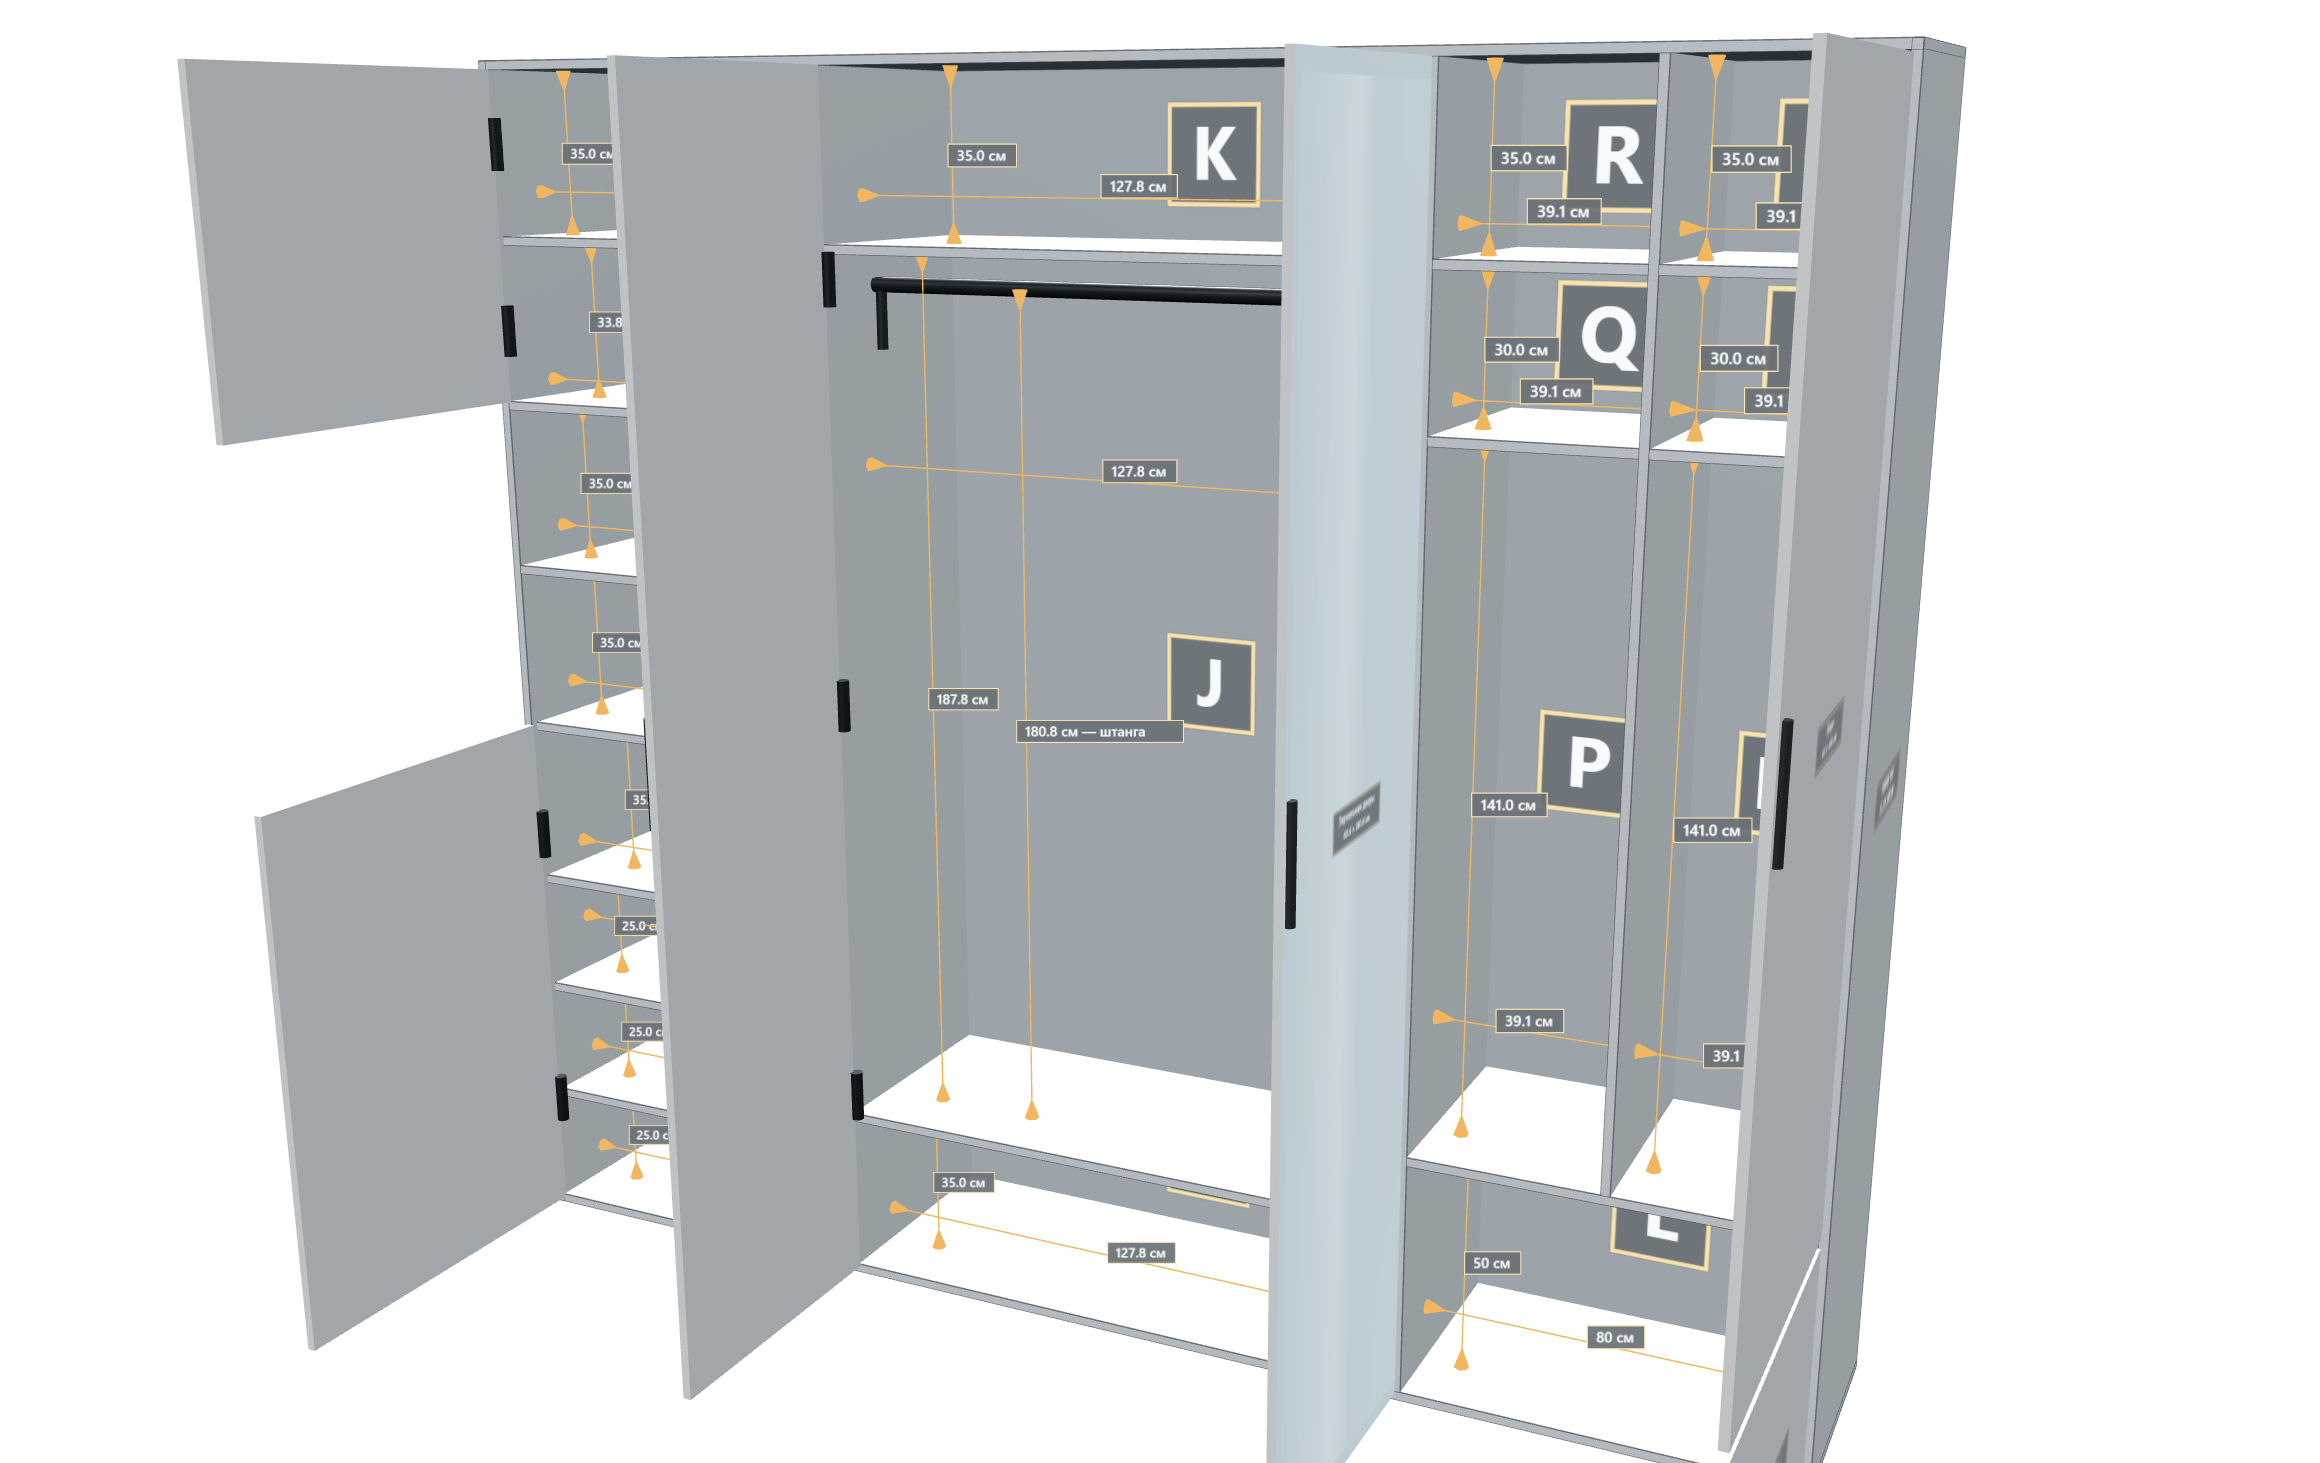
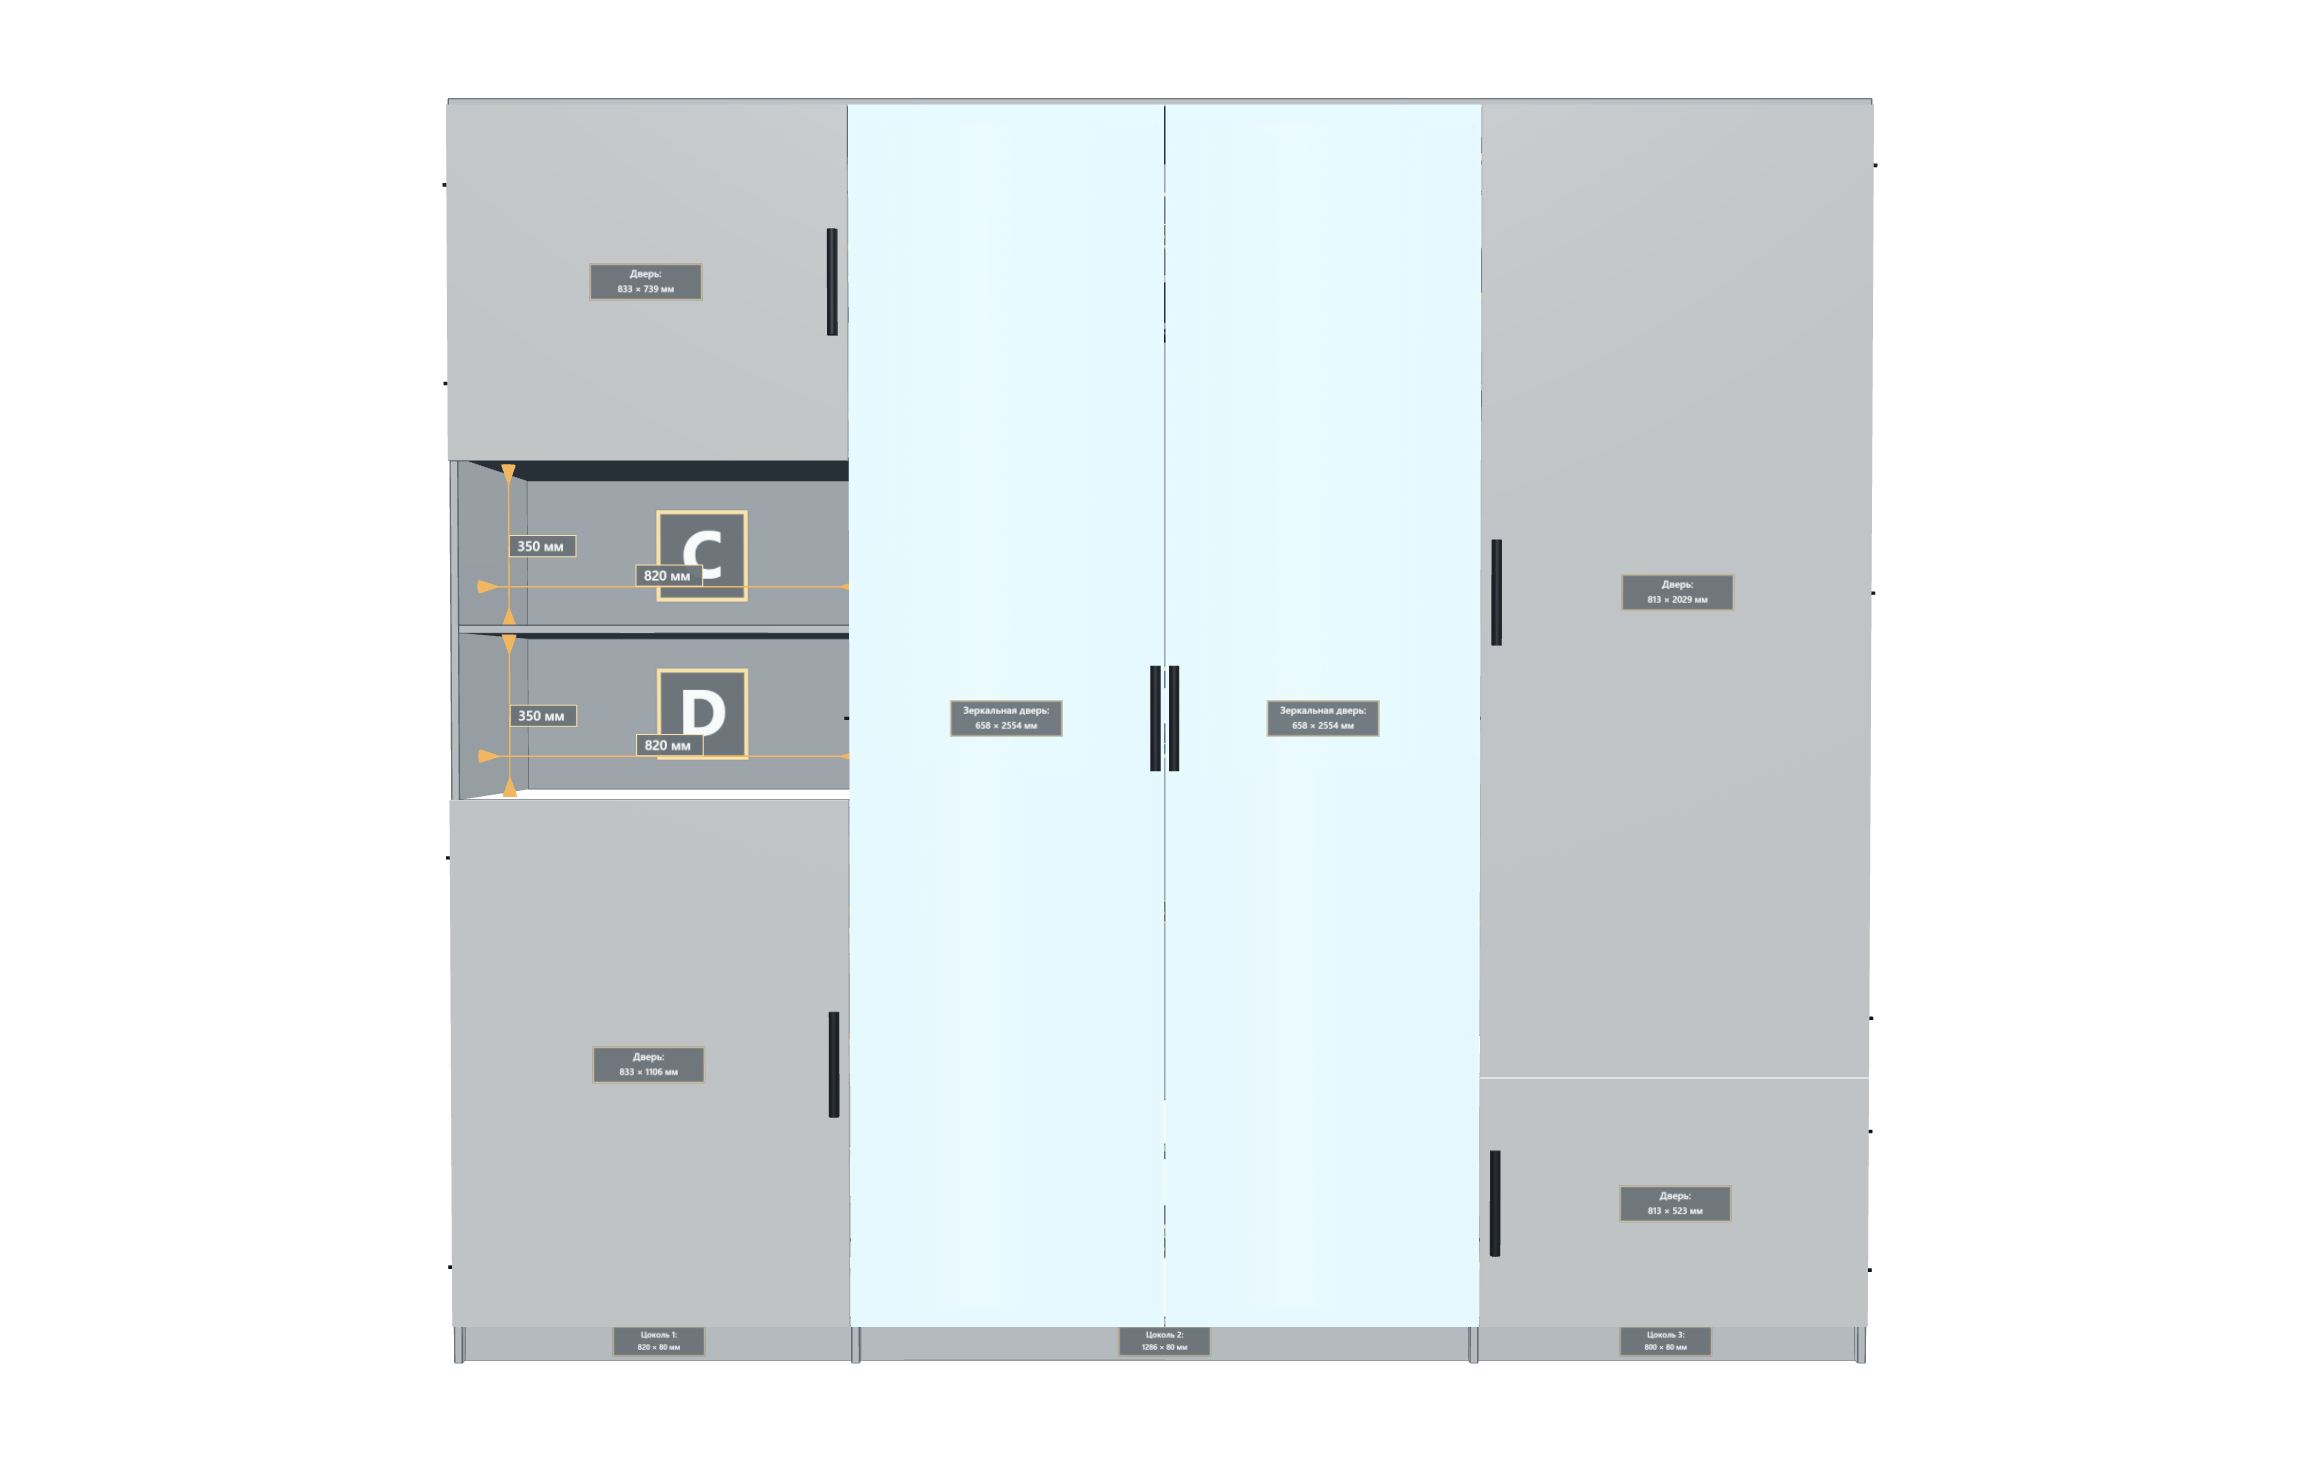
Update model screenshots and social preview

diff --git a/index.html b/index.html
@@ -7,14 +7,14 @@
   <meta property="og:type" content="website">
   <meta property="og:title" content="Шкаф для ниши — 3D-модель">
   <meta property="og:description" content="Интерактивная 3D-модель мебели с размерами для демонстрации мастерам.">
-  <meta property="og:image" content="https://airshipster.github.io/furniture-3d-model-example/screenshots/model-view-1.png">
-  <meta property="og:image:secure_url" content="https://airshipster.github.io/furniture-3d-model-example/screenshots/model-view-1.png">
+  <meta property="og:image" content="https://airshipster.github.io/furniture-3d-model-example/screenshots/model-view-2.png">
+  <meta property="og:image:secure_url" content="https://airshipster.github.io/furniture-3d-model-example/screenshots/model-view-2.png">
   <meta property="og:image:type" content="image/png">
   <meta property="og:image:width" content="2320">
   <meta property="og:image:height" content="1463">
   <meta property="og:site_name" content="Furniture 3D Model Example">
   <meta name="twitter:card" content="summary_large_image">
-  <meta name="twitter:image" content="https://airshipster.github.io/furniture-3d-model-example/screenshots/model-view-1.png">
+  <meta name="twitter:image" content="https://airshipster.github.io/furniture-3d-model-example/screenshots/model-view-2.png">
   <style>
     :root { color-scheme: dark; }
     * { box-sizing: border-box; }
